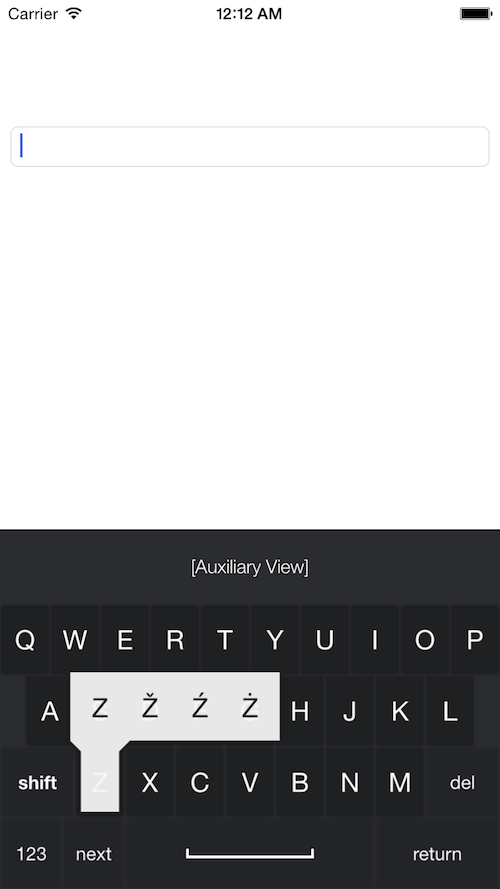
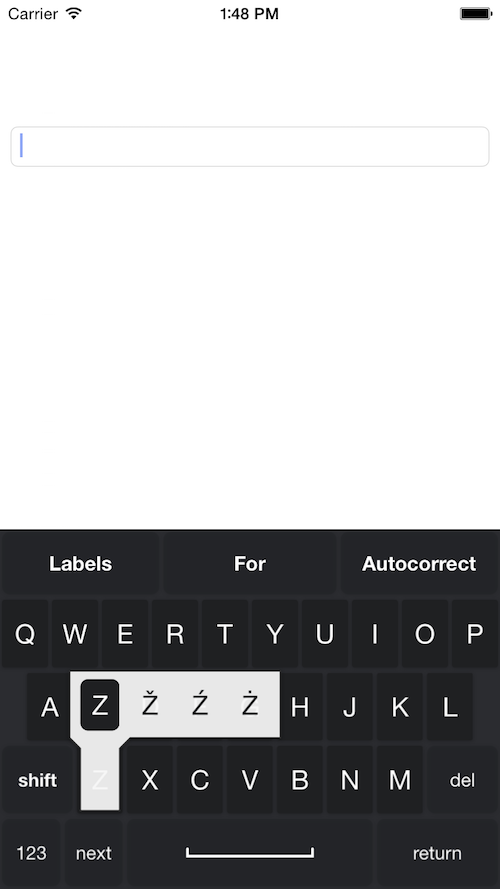
Updated keyboard screenshot

diff --git a/CustomKeyboard/KeyboardAuxiliaryController.m b/CustomKeyboard/KeyboardAuxiliaryController.m
@@ -50,9 +50,9 @@
    [self.view addSubview:self.centerAutocorrectController.view];
    [self.view addSubview:self.rightAutocorrectController.view];
 
-   [self.leftAutocorrectController updateText:@"Label"];
-   [self.centerAutocorrectController updateText:@"Label"];
-   [self.rightAutocorrectController updateText:@"Label"];
+   [self.leftAutocorrectController updateText:@"Labels"];
+   [self.centerAutocorrectController updateText:@"For"];
+   [self.rightAutocorrectController updateText:@"Autocorrect"];
 }
 
 - (void)addControllersToAutocorrectKeyManager
